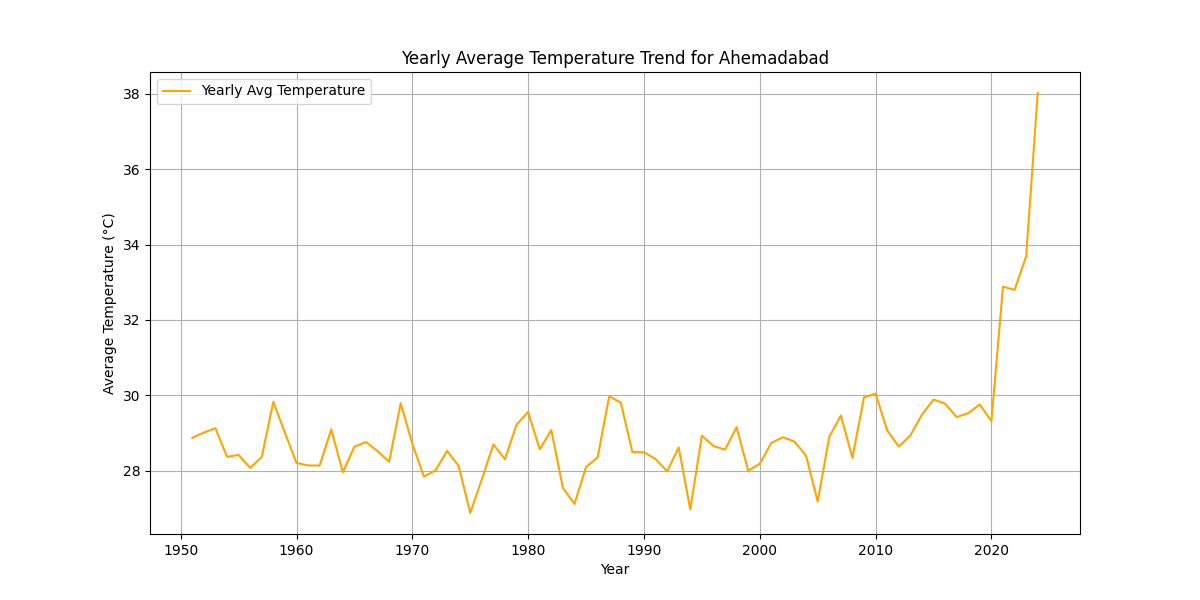
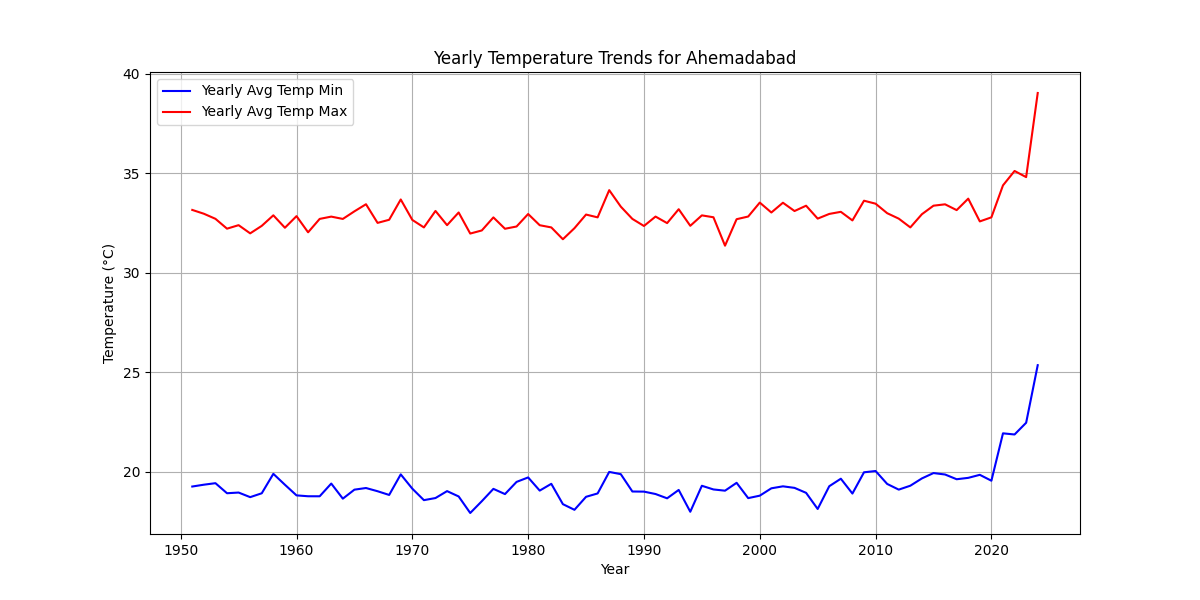
Added temp max and min along with average Temp

diff --git a/React Projects/02TemperatureTrend/Backend/climate_change_backend/backend.py b/React Projects/02TemperatureTrend/Backend/climate_change_backend/backend.py
@@ -12,6 +12,7 @@ from io import BytesIO
 
 app = Flask(__name__)
 
+
 # Configure CORS to allow requests from the frontend
 CORS(app, resources={r"/*": {"origins": "http://localhost:5173"}})
 
@@ -40,6 +41,7 @@ def process_city():
             return jsonify({"error": f"Error processing data for {city}: {str(e)}"}), 500
     else:
         return jsonify({"error": "No city provided"}), 400
+
 def process_city_data(city):
     try:
         # Load the CSV file
@@ -51,39 +53,39 @@ def process_city_data(city):
         df = df.dropna(subset=['Date'])
         df['Year'] = df['Date'].dt.year
 
-        # print(df.head())
         # Filter data by city
         city_data = df[df['City'].str.lower() == city.lower()]
         if city_data.empty:
             raise ValueError(f"No data available for the city: {city}")
 
-        # Ensure 'Temp Max' is numeric
-        city_data = city_data.copy()  # Ensure we're working with a new DataFrame, not a slice
-
         # Ensure 'Temp Max' and 'Temp Min' are numeric
+        city_data = city_data.copy()  # Ensure we're working with a new DataFrame, not a slice
         city_data.loc[:, 'Temp Max'] = pd.to_numeric(city_data['Temp Max'], errors='coerce')
         city_data.loc[:, 'Temp Min'] = pd.to_numeric(city_data['Temp Min'], errors='coerce')
 
-        # Calculate 'Temp Avg'
-        city_data.loc[:, 'Temp Avg'] = city_data['Temp Min'] + (city_data['Temp Min'] / 2)
-
-        # Drop rows with missing 'Temp Avg'
-        city_data = city_data.dropna(subset=['Temp Avg'])
+        # Calculate yearly average temperature
+        yearly_data = city_data.groupby('Year').agg({
+            'Temp Min': 'mean',
+            'Temp Max': 'mean'
+        }).reset_index()
 
         # Calculate yearly average temperature
-        yearly_avg = city_data.groupby('Year')['Temp Avg'].mean().reset_index()
+        yearly_data['Temp Avg'] = (yearly_data['Temp Min'] + yearly_data['Temp Max']) / 2
 
         # Create a plot
         fig, ax = plt.subplots(figsize=(12, 6))
-        ax.plot(yearly_avg['Year'], yearly_avg['Temp Avg'], label='Yearly Avg Temperature', color='orange')
-        ax.set_title(f'Yearly Average Temperature Trend for {city.capitalize()}')
+        ax.plot(yearly_data['Year'], yearly_data['Temp Min'], label='Yearly Avg Temp Min', color='blue')
+        ax.plot(yearly_data['Year'], yearly_data['Temp Max'], label='Yearly Avg Temp Max', color='red')
+        ax.plot(yearly_data['Year'], yearly_data['Temp Avg'], label='Yearly Avg Temp', color='orange', linestyle='--')
+        ax.set_title(f'Yearly Temperature Trends for {city.capitalize()}')
         ax.set_xlabel('Year')
-        ax.set_ylabel('Average Temperature (°C)')
+        ax.set_ylabel('Temperature (°C)')
         ax.legend()
         ax.grid(True)
 
+        # Save the plot as an image
         img_file_name = f"{city.lower()}_temperature_trend.png"
-        img_path =os.path.join(STATIC_DIR, img_file_name)
+        img_path = os.path.join(STATIC_DIR, img_file_name)
         plt.savefig(img_path)
         plt.close(fig)
 
@@ -91,6 +93,7 @@ def process_city_data(city):
     except Exception as e:
         print(f"Error in processing data for {city}: {e}")
         return None
+
 
 if __name__ == "__main__":
     app.run(debug=True, port=5000)
